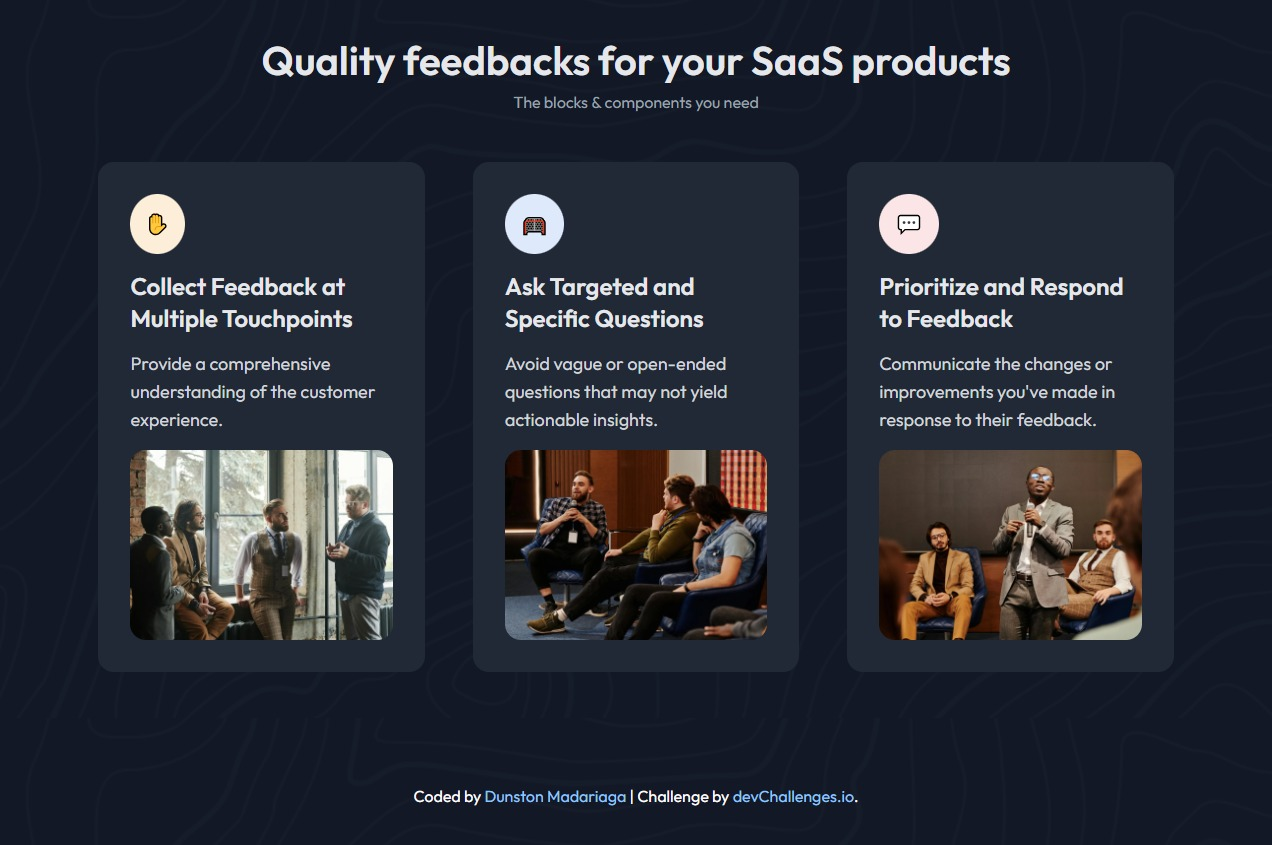
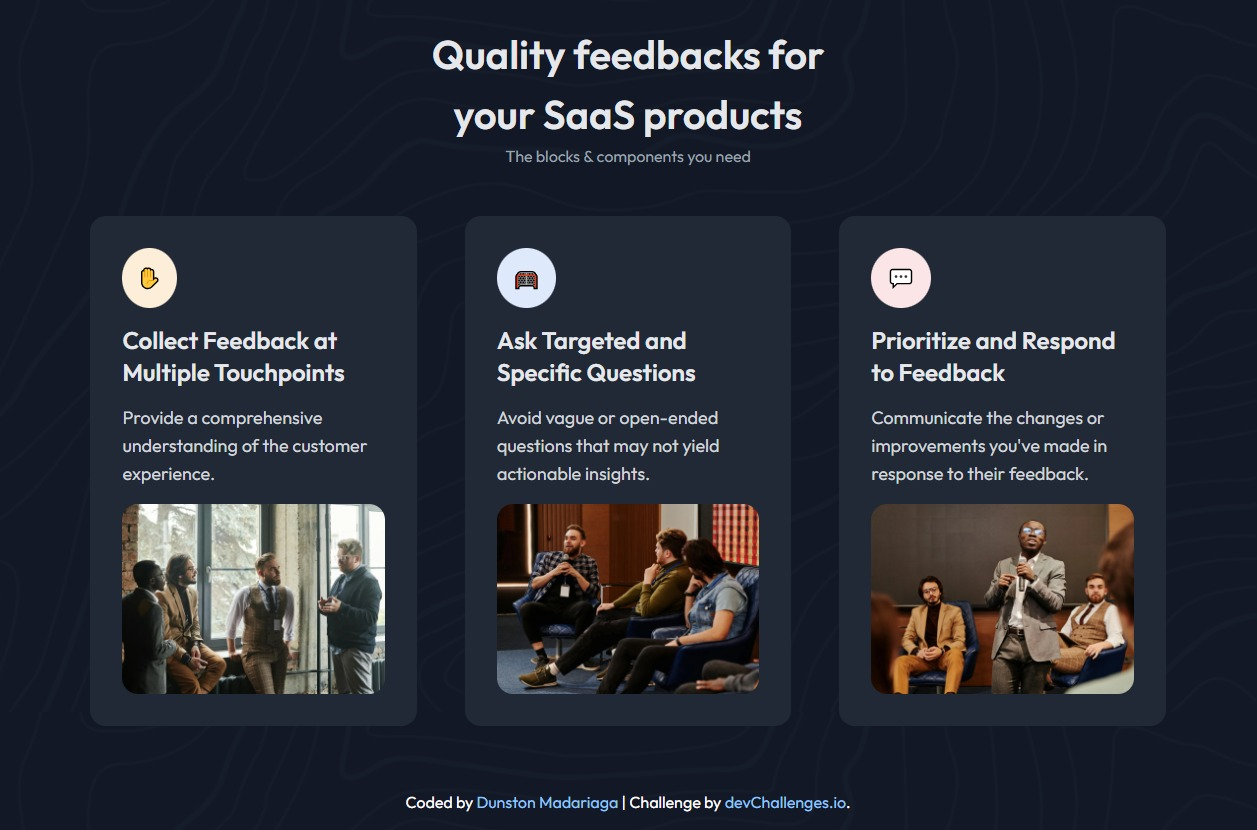
:Improving the size a little

diff --git a/src/styles.css b/src/styles.css
@@ -554,10 +554,6 @@ video {
   display: none;
 }
 
-.relative {
-  position: relative;
-}
-
 .mx-auto {
   margin-left: auto;
   margin-right: auto;
@@ -718,22 +714,10 @@ video {
   transition-duration: 300ms;
 }
 
-.ease-in-out {
-  transition-timing-function: cubic-bezier(0.4, 0, 0.2, 1);
-}
-
 .hover\:scale-105:hover {
   --tw-scale-x: 1.05;
   --tw-scale-y: 1.05;
   transform: translate(var(--tw-translate-x), var(--tw-translate-y)) rotate(var(--tw-rotate)) skewX(var(--tw-skew-x)) skewY(var(--tw-skew-y)) scaleX(var(--tw-scale-x)) scaleY(var(--tw-scale-y));
-}
-
-.hover\:duration-300:hover {
-  transition-duration: 300ms;
-}
-
-.hover\:ease-in-out:hover {
-  transition-timing-function: cubic-bezier(0.4, 0, 0.2, 1);
 }
 
 @media (min-width: 640px) {
@@ -758,8 +742,42 @@ video {
     margin-right: 6rem;
   }
 
+  .lg\:mx-\[100\%\] {
+    margin-left: 100%;
+    margin-right: 100%;
+  }
+
+  .lg\:mx-\[50\%\] {
+    margin-left: 50%;
+    margin-right: 50%;
+  }
+
+  .lg\:mx-\[10\%\] {
+    margin-left: 10%;
+    margin-right: 10%;
+  }
+
+  .lg\:mx-\[15\%\] {
+    margin-left: 15%;
+    margin-right: 15%;
+  }
+
+  .lg\:mx-\[20\%\] {
+    margin-left: 20%;
+    margin-right: 20%;
+  }
+
+  .lg\:mx-\[30\%\] {
+    margin-left: 30%;
+    margin-right: 30%;
+  }
+
   .lg\:w-\[45\%\] {
     width: 45%;
+  }
+
+  .lg\:w-\[70\%\] {
+    width: 70%;
   }
 
   .lg\:max-w-\[100\%\] {
@@ -768,8 +786,31 @@ video {
 }
 
 @media (min-width: 1280px) {
+  .xl\:mx-\[40\%\] {
+    margin-left: 40%;
+    margin-right: 40%;
+  }
+
+  .xl\:mx-\[35\%\] {
+    margin-left: 35%;
+    margin-right: 35%;
+  }
+
+  .xl\:mx-\[32\%\] {
+    margin-left: 32%;
+    margin-right: 32%;
+  }
+
   .xl\:mt-24 {
     margin-top: 6rem;
+  }
+
+  .xl\:mt-20 {
+    margin-top: 5rem;
+  }
+
+  .xl\:mt-12 {
+    margin-top: 3rem;
   }
 
   .xl\:w-\[30\%\] {

diff --git a/index.html b/index.html
@@ -26,7 +26,7 @@
     class="bg-[url(../resources/Background_image.svg)] bg-[#121826] font-Outfit"
   >
     <header class="mb-12 mt-8">
-      <h1 class="text-[#E5E7EB] text-[40px] font-semibold text-center">
+      <h1 class="text-[#E5E7EB] text-[40px] font-semibold text-center lg:mx-[30%] xl:mx-[32%]">
         Quality feedbacks for your SaaS products
       </h1>
       <p class="text-[#9DA3AE] text-base text-center">
@@ -91,7 +91,7 @@
         />
       </section>
     </main>
-    <div class="text-center text-white mt-12 p-4 xl:mt-24">
+    <div class="text-center text-white mt-12 p-4">
       Coded by
       <a class="text-blue-300" href="https://github.com/Pogo182028"
         >Dunston Madariaga</a
